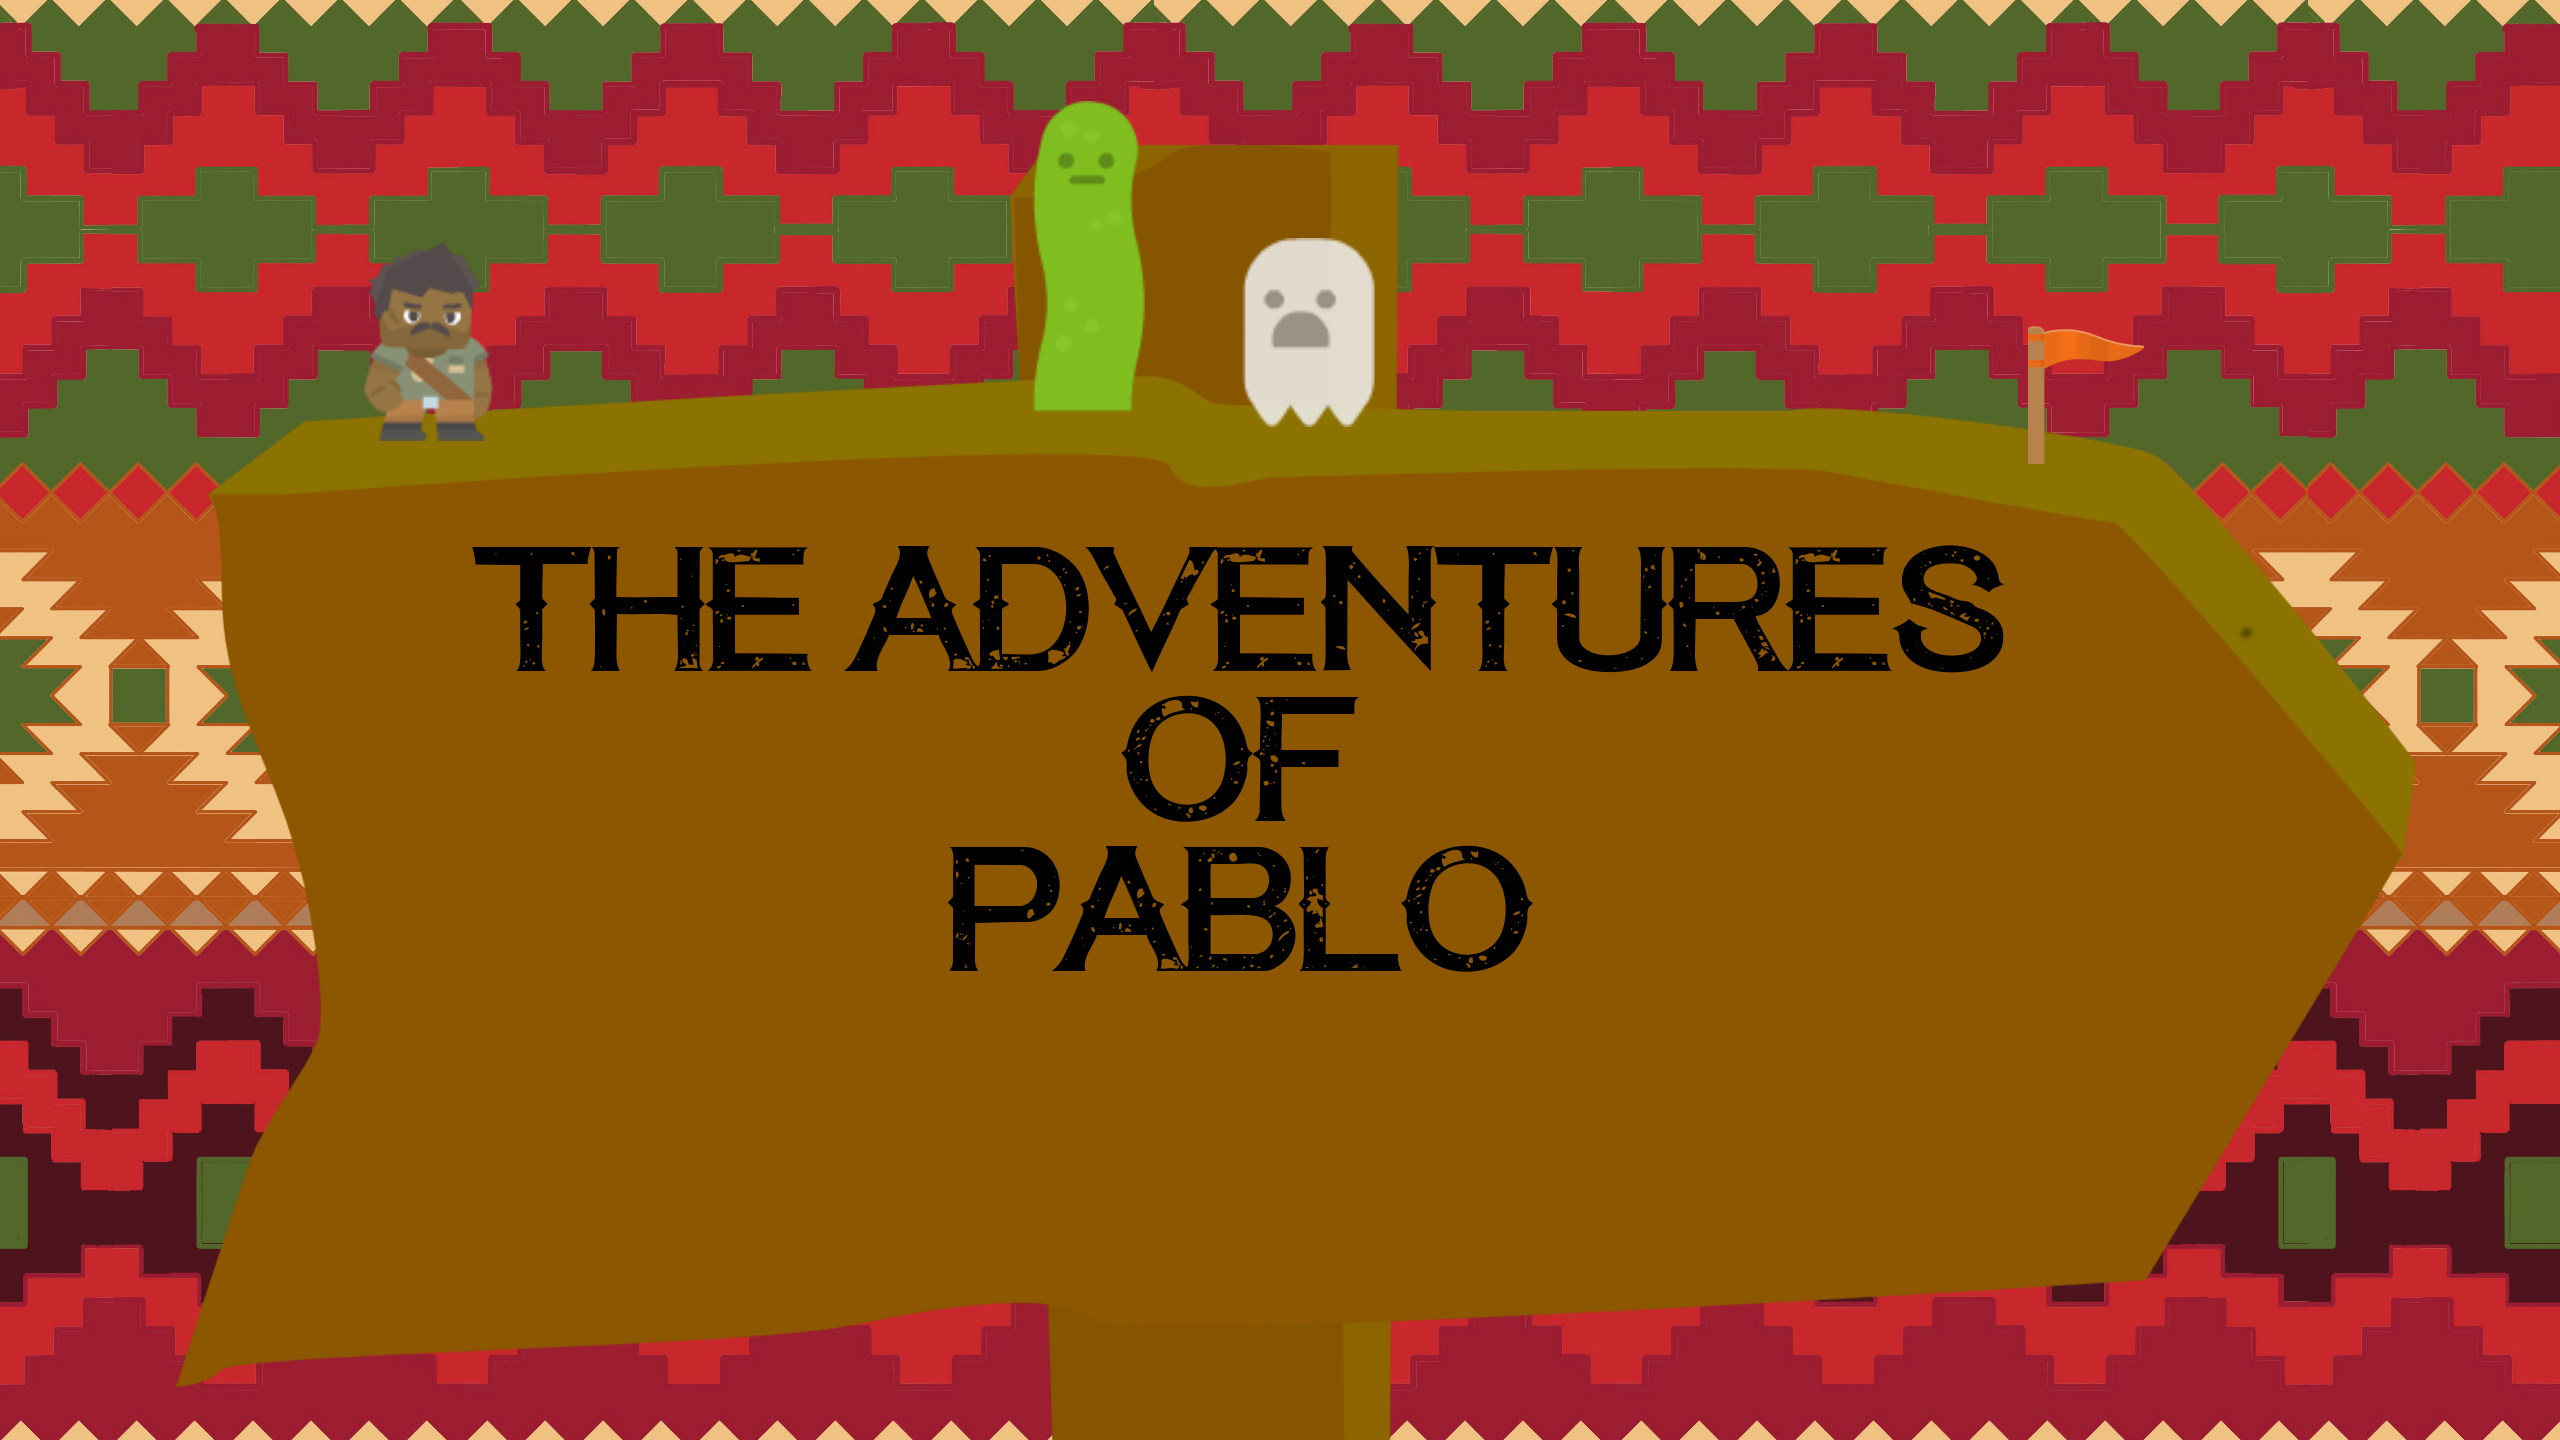
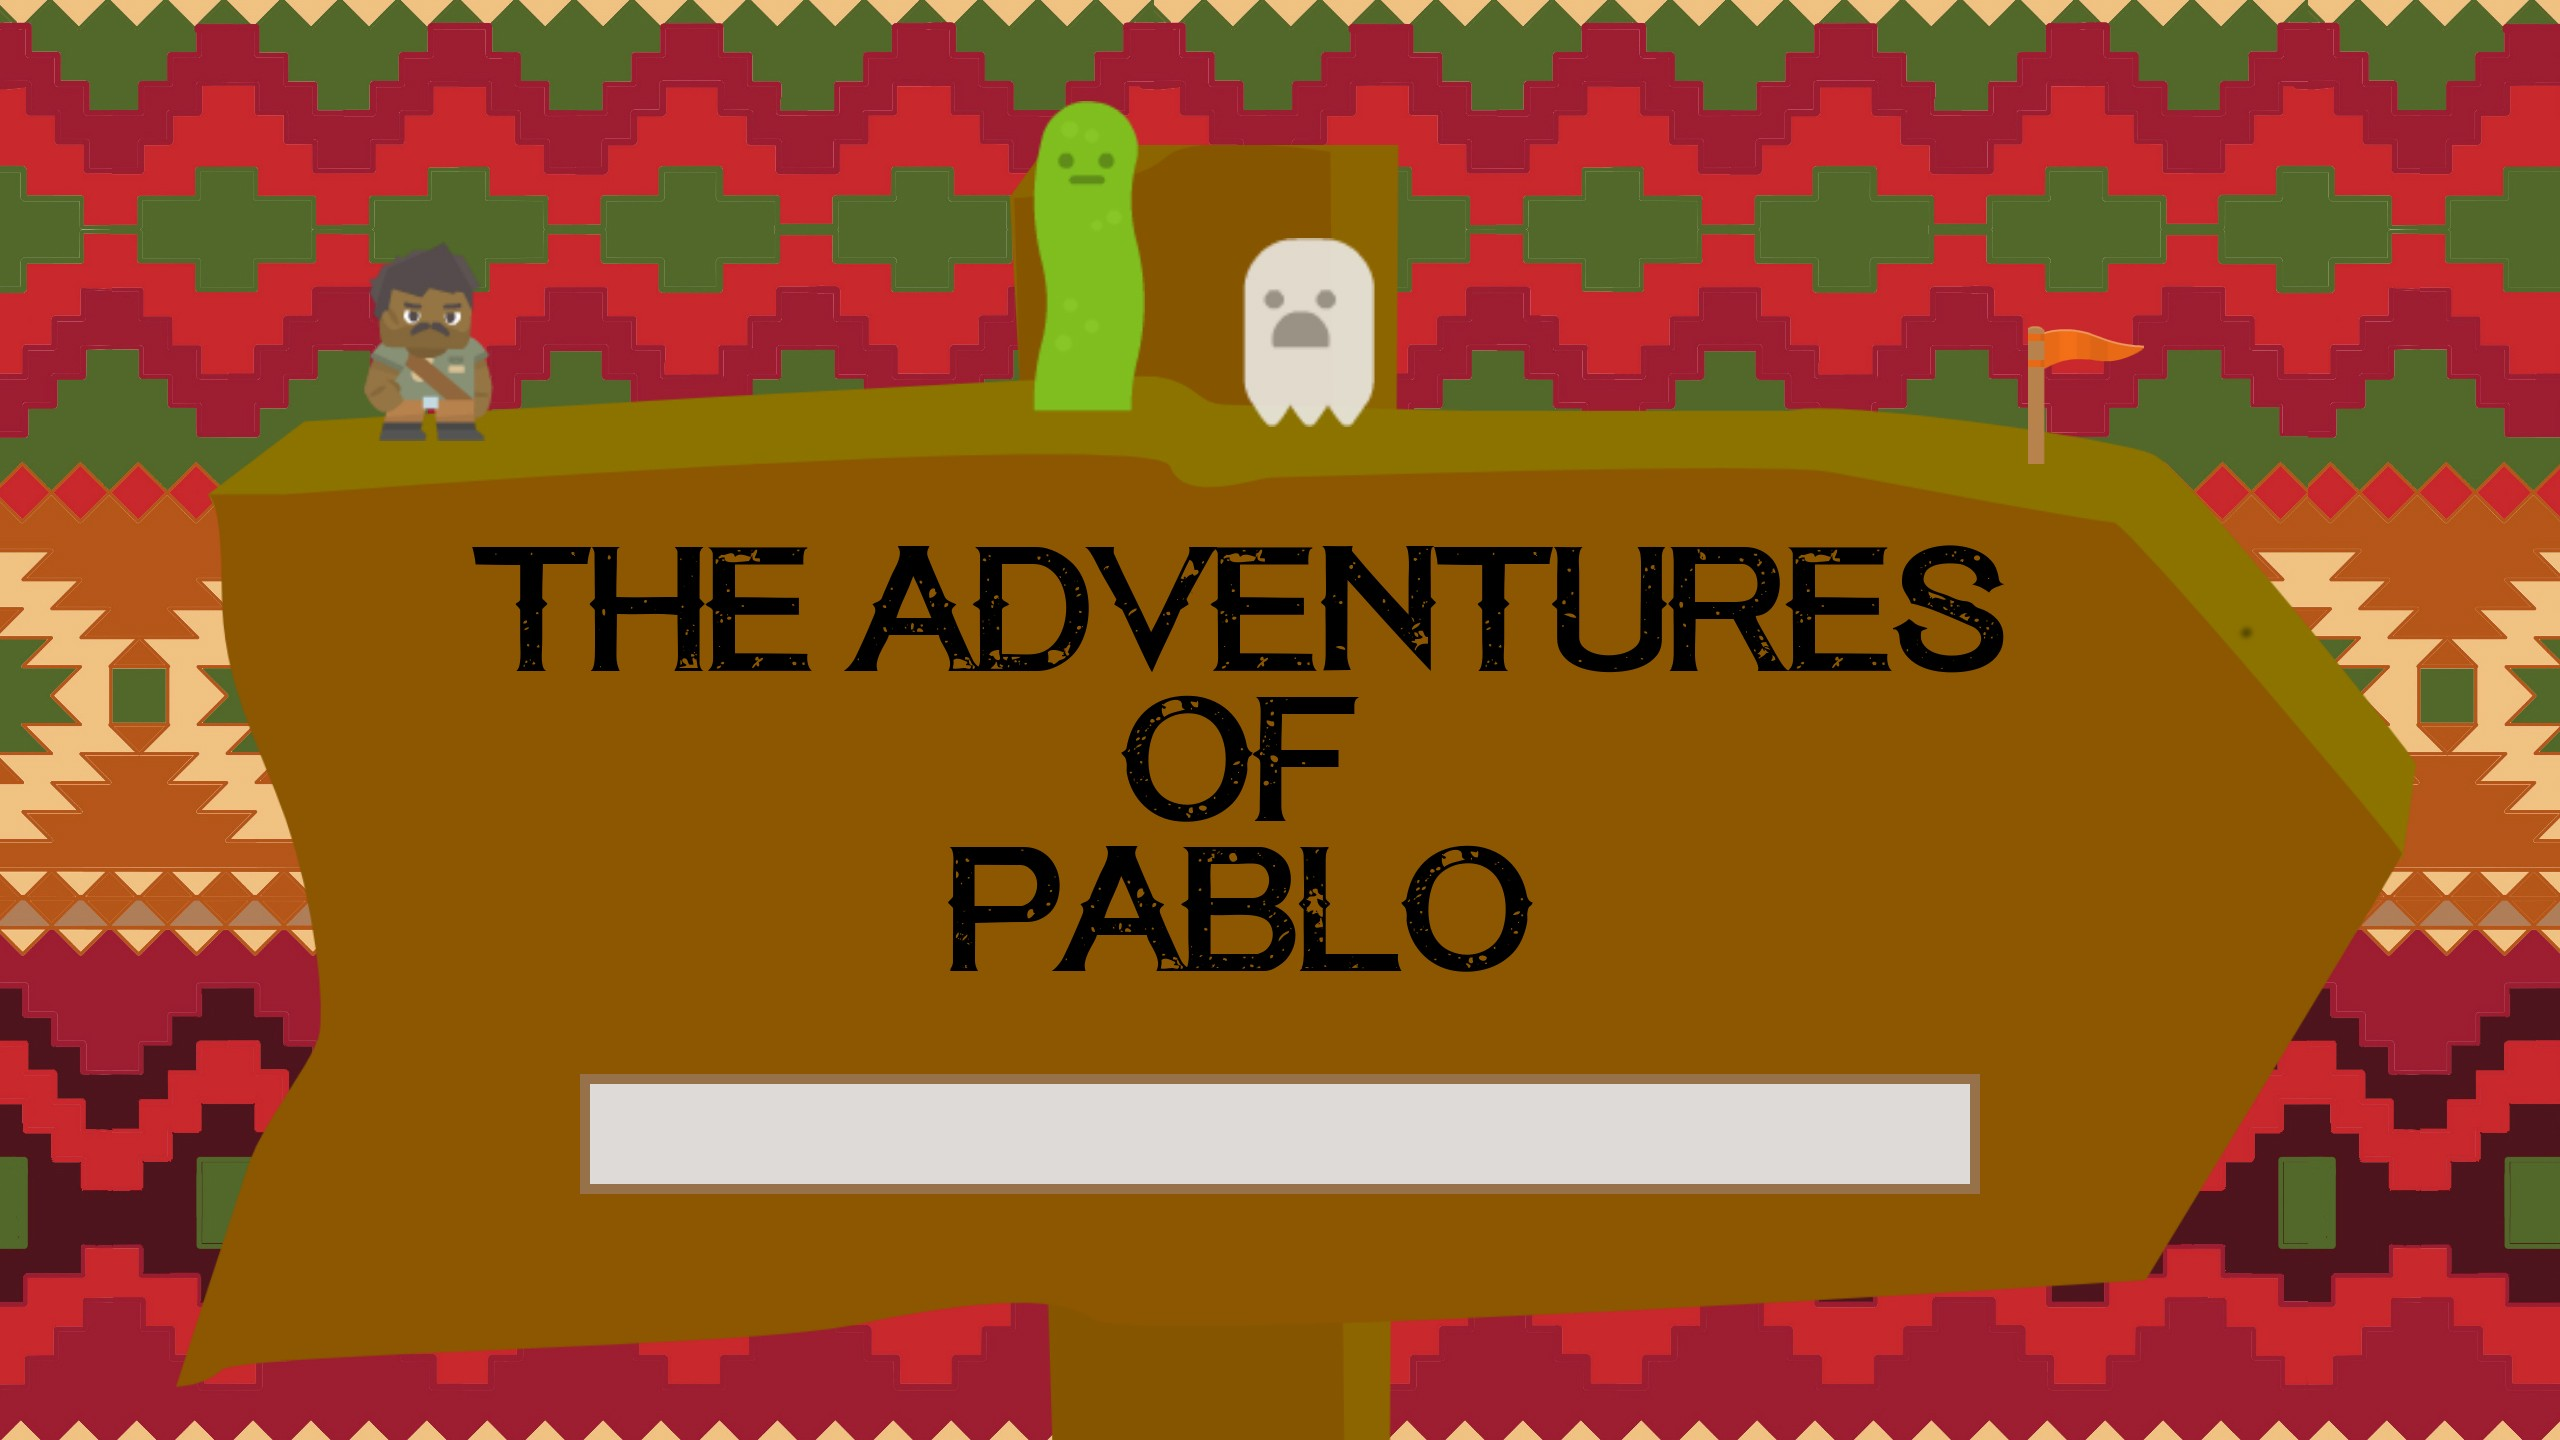
Revamp menus

Changed region(s): [[0.2188, 0.7188, 0.7812, 0.8438]]

diff --git a/src/main/java/ivara/scenes/PauseMenu.java b/src/main/java/ivara/scenes/PauseMenu.java
@@ -6,6 +6,7 @@ import core.struct.Camera;
 import core.struct.ResourceID;
 import core.struct.Sprite;
 import ivara.entities.BackgroundEntity;
+import ivara.entities.ui.ButtonEntity;
 import ivara.entities.ui.UIEntity;
 import ivara.entities.ui.UIListener;
 import kuusisto.tinysound.Sound;
@@ -13,18 +14,20 @@ import kuusisto.tinysound.TinySound;
 import maths.Vector;
 import physics.AABBCollider;
 
+import static ivara.Ivara.MAP;
+
 /**
  * This scene acts as a pause menu.
  * @author Alex Mitchell 
  */
-public class PauseMenu extends Scene{
-    private static final float BUTTON_WIDTH = 4.5f;
-    private static final float BUTTON_HEIGHT = 1.275f;
-    private static final int NUM_BUTTONS = 5; // Spacing is defined by the number of buttons within the scene
+public class PauseMenu extends Scene {
 
-    private static final float YPOS = 13.5f; // Position of the line of buttons
-    private static final float XMARGIN_LEFT = 3.5f; // Where to start adding buttons from
-    private static final float XMARGIN_RIGHT = 5f; // Where to end adding buttons
+    private static final float LEFT = 7.25f;
+    private static final float TOP = 13.625f;
+    private static final float MARGIN = 0.25f;
+    private static final float BUTTON_WIDTH = 3.2f;
+    private static final float BUTTON_HEIGHT = 1.1f;
+    private static final Vector BUTTON_DIMEN = new Vector(BUTTON_WIDTH, BUTTON_HEIGHT);
 
     private static final Sound saveSound = TinySound.loadSound("savesound.wav");
 
@@ -32,72 +35,33 @@ public class PauseMenu extends Scene{
     public void initialize() {
         Camera c = new Camera();
         setCamera(c);
-        Vector cDimensions = c.dimensions;
 
-        float leftoverX = cDimensions.x - (NUM_BUTTONS*BUTTON_WIDTH) - XMARGIN_LEFT - XMARGIN_RIGHT; // Space allowed for the construction of buttons
-        float btnSpaceX = leftoverX/(NUM_BUTTONS+1); // Space between buttons
+        addEntity(new ButtonEntity(getButtonPosition(1), BUTTON_DIMEN, "resume")
+                .addListener(() -> getGame().pause()));
 
-        int btnCount = 0; // The button we are up to adding
+        addEntity(new ButtonEntity(getButtonPosition(2), BUTTON_DIMEN, "save")
+                .addListener(() -> {
+                    saveSound.play();
+                    getGame().save();
+                    getGame().pause();
+                }));
 
-        // Resume button
-        addButton("resume", new UIListener() {
-            @Override
-            public void onClick() {
-                getGame().pause(); // Toggle pause
-            }
-        },btnSpaceX, btnCount++);
+        addEntity(new ButtonEntity(getButtonPosition(3), BUTTON_DIMEN, "load")
+                .addListener(() -> getGame().load()));
 
-        // Save button
-        addButton("save", new UIListener() {
-            @Override
-            public void onClick() {
-                saveSound.play();
-                getGame().save();
-            }
-        },btnSpaceX, btnCount++);
+        addEntity(new ButtonEntity(getButtonPosition(4), BUTTON_DIMEN, "restart")
+                .addListener(() -> {
+                    ((Level)getGame().getLevelManager().getCurrentActiveScene()).resetScene();
+                    getGame().pause();
+                }));
 
-        // Load button
-        addButton("load", new UIListener() {
-            @Override
-            public void onClick() {
-                getGame().load();
-            }
-        },btnSpaceX, btnCount++);
-
-        // Restart Button
-        addButton("restart", new UIListener() {
-            @Override
-            public void onClick() {
-                Game g = getGame();
-                ((Level)g.getLevelManager().getCurrentActiveScene()).resetScene(); // TODO fix this
-                g.pause();
-            }
-        },btnSpaceX, btnCount++);
-
-        // Quit Button
-        addButton("quit", new UIListener() {
-            @Override
-            public void onClick() {
-                Game g = getGame();
-                ((Level)g.getLevelManager().getCurrentActiveScene()).resetScene(); // TODO fix this
-            }
-        },btnSpaceX, btnCount++);
+        addEntity(new ButtonEntity(getButtonPosition(5), BUTTON_DIMEN, "quit")
+                .addListener(() -> getGame().getLevelManager().setToBookmarkedScene(MAP)));
 
         addEntity(new BackgroundEntity(new ResourceID("menuscreen1")));
     }
 
-    /**
-     * Adds a button to the scene with a given resourceID, eventListener and information regarding it's positioning.
-     * @param resourceID The name of the image file.
-     * @param buttonEvent The event that occurs on button press.
-     * @param btnSpaceX The size of the gap between buttons.
-     * @param btnCount The button number.
-     */
-    private void addButton(String resourceID, UIListener buttonEvent, float btnSpaceX, int btnCount){
-        UIEntity button = new UIEntity(new Vector(XMARGIN_LEFT + btnSpaceX + (btnCount*(BUTTON_WIDTH + btnSpaceX)),YPOS),
-                new Sprite(new ResourceID(resourceID), new Vector(0, 0), new Vector(BUTTON_WIDTH, BUTTON_HEIGHT)),
-                new AABBCollider(AABBCollider.MIN_DIM, new Vector(0, 0), new Vector(BUTTON_WIDTH, BUTTON_HEIGHT)));
-        button.addListener(buttonEvent);
-        addEntity(button);
+    private Vector getButtonPosition(int buttonNumber) {
+        return new Vector(LEFT + MARGIN + ((buttonNumber-1) * (MARGIN + BUTTON_WIDTH)), TOP);
     }
 }

diff --git a/src/main/java/ivara/scenes/StartMenu.java b/src/main/java/ivara/scenes/StartMenu.java
@@ -5,6 +5,7 @@ import core.struct.Camera;
 import core.struct.ResourceID;
 import core.struct.Sprite;
 import ivara.entities.BackgroundEntity;
+import ivara.entities.ui.ButtonEntity;
 import ivara.entities.ui.UIEntity;
 import ivara.entities.ui.UIListener;
 import maths.Vector;
@@ -17,61 +18,32 @@ import static ivara.Ivara.MAP;
  */
 public class StartMenu extends Scene{
 
-    private final float BUTTON_WIDTH = 6f;
-    private final float BUTTON_HEIGHT = 1.7f;
+    private static final float LEFT = 7.25f;
+    private static final float TOP = 13.625f;
+    private static final float MARGIN = 0.25f;
+    private static final float BUTTON_WIDTH = 5.5f;
+    private static final float BUTTON_HEIGHT = 1.1f;
+    private static final Vector BUTTON_DIMEN = new Vector(BUTTON_WIDTH, BUTTON_HEIGHT);
 
-    private final float YPOS = 13.5f; // The Y position to start drawing the line of buttons from
-
-    private final float XMARGIN_LEFT = 2f;
-    private final float XMARGIN_RIGHT = 3f;
-
-    private final int NUM_BUTTONS = 3; // Spacing is defined by the number of buttons within the scene
     @Override
     public void initialize() {
 
         Camera c = new Camera();
         setCamera(c);
-        Vector cDimensions = c.dimensions;
 
-        float leftoverX = cDimensions.x - (NUM_BUTTONS*BUTTON_WIDTH) - XMARGIN_LEFT - XMARGIN_RIGHT;
-        float btnSpaceX = leftoverX/(NUM_BUTTONS+1);
+        addEntity(new ButtonEntity(getButtonPosition(1), BUTTON_DIMEN, "play")
+                .addListener(() -> getGame().getLevelManager().setToBookmarkedScene(MAP)));
 
-        int btnCount = 0;
+        addEntity(new ButtonEntity(getButtonPosition(2), BUTTON_DIMEN, "load")
+                .addListener(() -> getGame().load()));
 
-        //--- New game button
-        addButton("play", new UIListener() {
-            @Override
-            public void onClick() {
-                getGame().getLevelManager().setToBookmarkedScene(MAP);
-            }
-        },btnSpaceX, btnCount++);
-
-        //--- Load button
-        addButton("load", new UIListener() {
-            @Override
-            public void onClick() {
-                getGame().load();
-            }
-        },btnSpaceX, btnCount++);
-
-        //--- Quit button
-        addButton("quit", new UIListener() {
-            @Override
-            public void onClick() {
-                getGame().getWindow().exit();
-            }
-        },btnSpaceX, btnCount++);
+        addEntity(new ButtonEntity(getButtonPosition(3), BUTTON_DIMEN, "quit")
+                .addListener(() -> getGame().getWindow().exit()));
 
         addEntity(new BackgroundEntity(new ResourceID("menuscreen1")));
-
-
     }
 
-    private void addButton(String resourceID, UIListener buttonEvent, float btnSpaceX, int btnCount){
-        UIEntity button = new UIEntity(new Vector(XMARGIN_LEFT + btnSpaceX + (btnCount*(BUTTON_WIDTH + btnSpaceX)),YPOS),
-                new Sprite(new ResourceID(resourceID), new Vector(0, 0), new Vector(BUTTON_WIDTH, BUTTON_HEIGHT)),
-                new AABBCollider(AABBCollider.MIN_DIM, new Vector(0, 0), new Vector(BUTTON_WIDTH, BUTTON_HEIGHT)));
-        button.addListener(buttonEvent);
-        addEntity(button);
+    private Vector getButtonPosition(int buttonNumber) {
+        return new Vector(LEFT + MARGIN + ((buttonNumber-1) * (MARGIN + BUTTON_WIDTH)), TOP);
     }
 }
